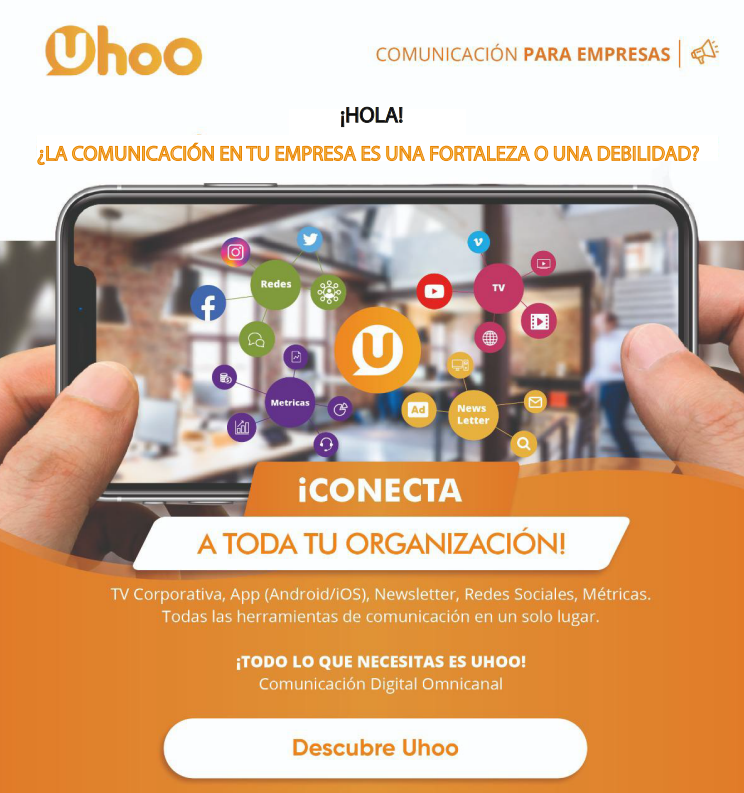
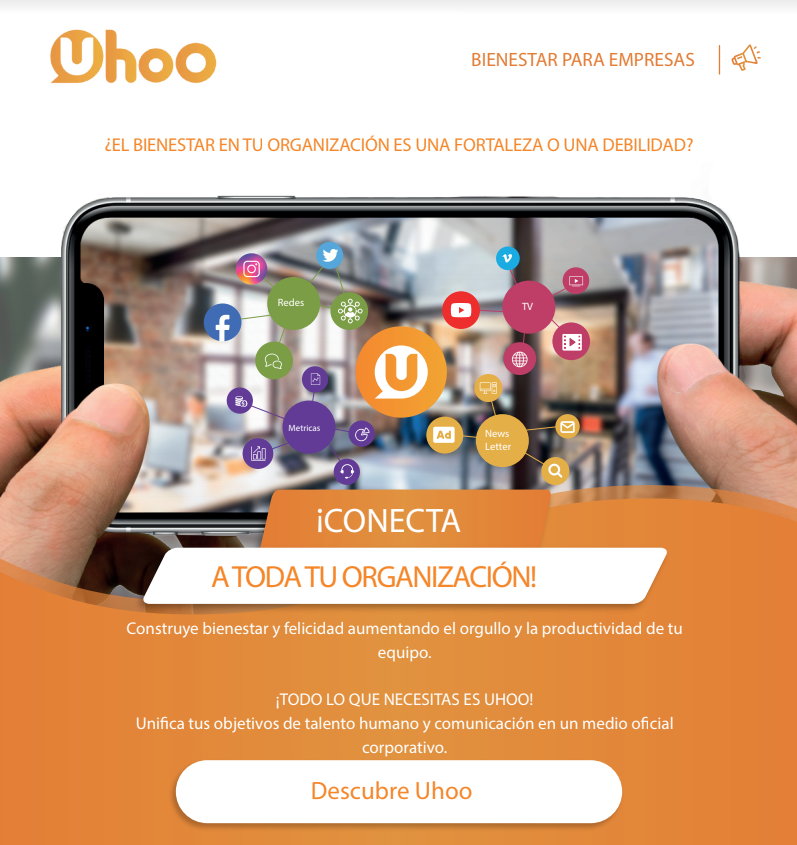
Cambios imagen, subject y link

diff --git a/main.js b/main.js
@@ -12,9 +12,11 @@ var transporter = nodemailer.createTransport({
     service: 'gmail',
     auth: {
         user: 'sales@bcodesolutions.com',
-        pass: 'Code202!' // naturally, replace both with your real credentials or an application-specific password
+        pass: 'LAbm2U**' // naturally, replace both with your real credentials or an application-specific password
     }
 });
+var sent = 0;
+var errors = [];
 
 function readCSv(){
     count = 0;
@@ -23,15 +25,25 @@ function readCSv(){
     let inputStream = Fs.createReadStream(path, 'utf8');
     var name = undefined;
     var email = undefined;
+    var sent = 0;
+    var subject = "El secreto de la productividad está en la felicidad de tus colaboradores, conoce Uhoo 🙌🏻.";
     inputStream
     .pipe(new CsvReadableStream({ parseNumbers: true, parseBooleans: true, trim: true }))
     .on('data', function (row) {
         if (count % 2 == 0) {
             name = row[0];
+            if(sent % 2 == 0){
+                subject = "El secreto de la productividad está en la felicidad de tus colaboradores, conoce Uhoo 🙌🏻.";
+            }
+            else{
+                subject = 'Ábrele la puerta 🚪 al bienestar en ' + name + '.'
+            }
         }
         else{
             email = row[0];
-            sendEmail(name, email);
+            subject = 
+            sendEmail(name, email, subject);
+            sent++;
         }
         count ++;
     })
@@ -43,21 +55,23 @@ function readCSv(){
 
 readCSv();
 
-function sendEmail(name, email){
-    console.log("User", name, ",",email);
+function sendEmail(name, email, subject){
+    console.log("User", name, ",",email,",",subject);
     transporter.sendMail({
         from: 'sales@bcodesolutions.com', // sender address
         to: [email], // list of receivers
-        subject: '¡Te escuchamos ' + name + '!', // Subject line
-        html: '<div height: 100em"><h2>¡Buenas tardes, ' + name + '!</h2><img src="cid:uhoo"><h4>Juan Ardila S.</h4><h4>Uhoo Sales Representative</h4><h4>Cel: 317 680 7256</h4></div>',
+        subject: subject, // Subject line
+        html: '<div height: 100em"><h2>¡Hola, ' + name + '!</h2><a href="https://landing.uhoo.io/"><img src="cid:uhoo"></a><h4>Juan Ardila S.</h4><h4>Uhoo Sales Representative</h4><h4>Cel: 317 680 7256</h4></div>',
         attachments: [{
             filename: 'Uhoo.png',
             path: __dirname +'/img/Uhoo.png',
             cid: 'uhoo' //my mistake was putting "cid:logo@cid" here! 
        }]
     }, function (err, info) {
-        if(err)
-        console.log(err)
+        sent++;
+        if(err){
+            console.log(err);
+        }
         else{
             console.log(info);
         }
